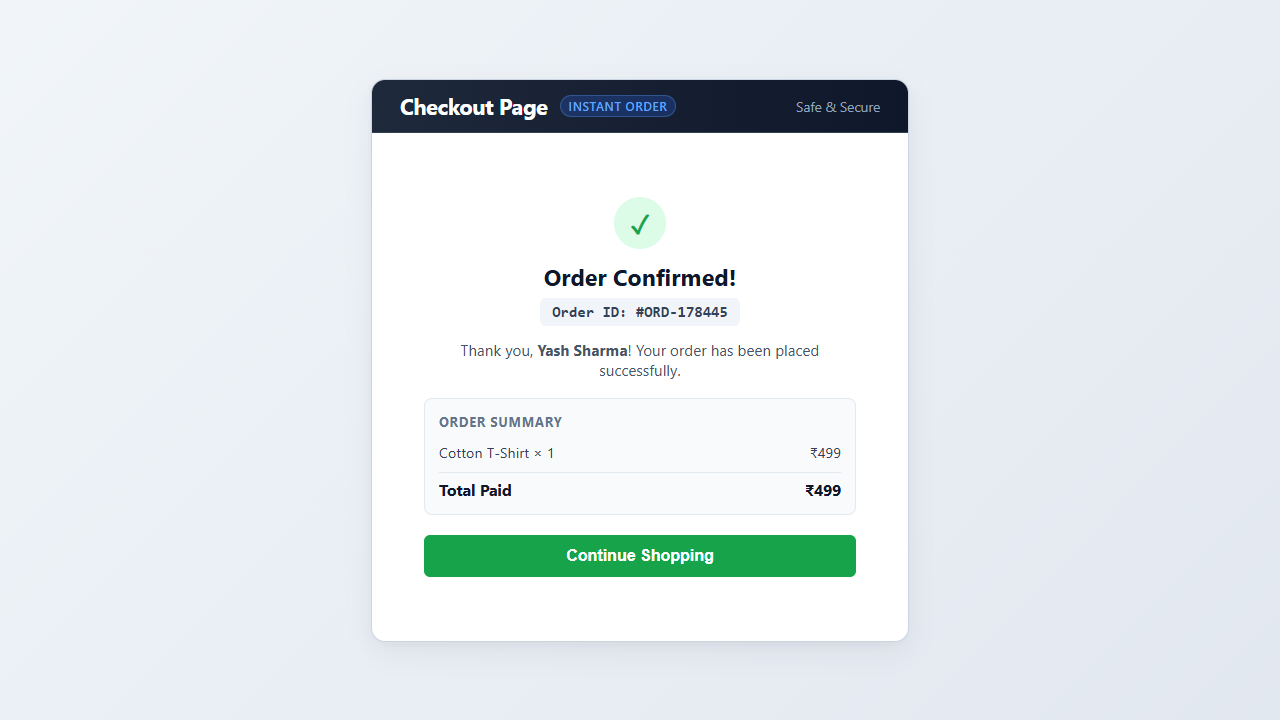
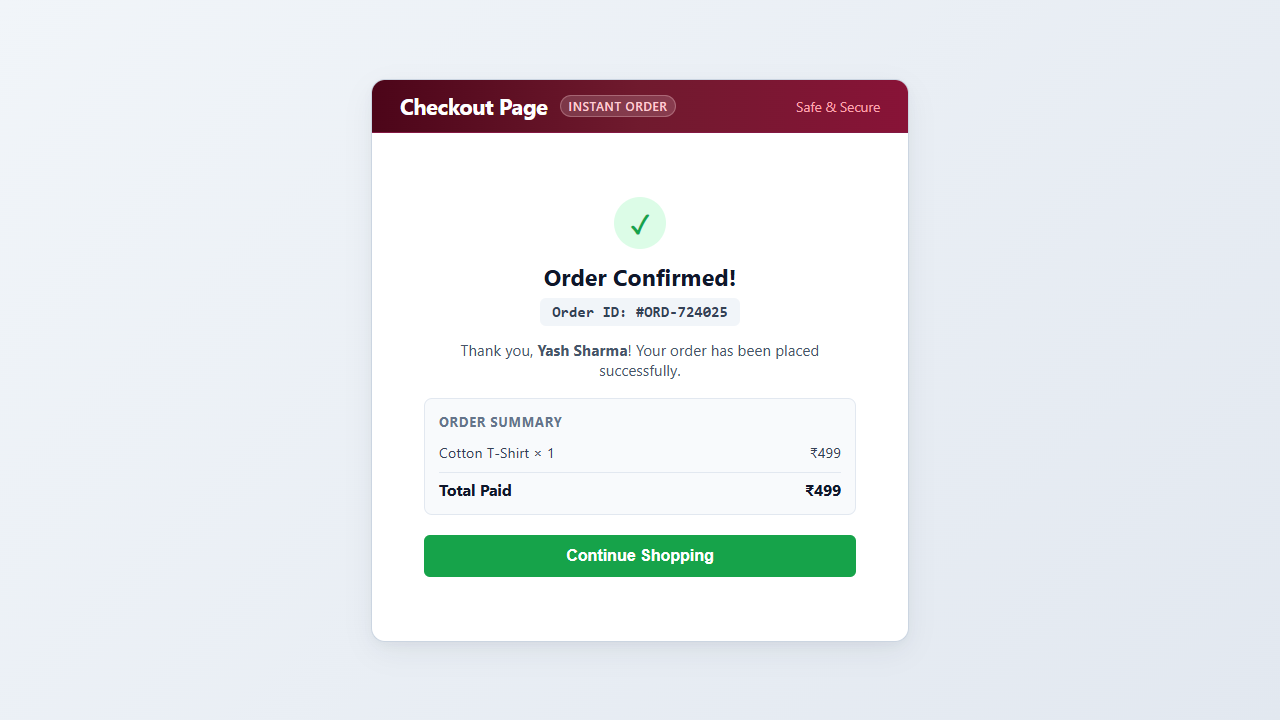
style: apply elegant maroon shade to header and Place Order button

Changed region(s): [[0.2812, 0.0917, 0.7188, 0.1833], [0.5312, 0.4278, 0.5625, 0.4583]]

diff --git a/src/styles/App.css b/src/styles/App.css
@@ -44,13 +44,13 @@ body {
 
 /* Top Header Bar Inside the Card */
 .checkout-topbar {
-  background: linear-gradient(90deg, #1e293b 0%, #0f172a 100%);
+  background: linear-gradient(90deg, #4c0519 0%, #701a2e 50%, #881337 100%);
   color: #ffffff;
   padding: 12px 28px;
   display: flex;
   justify-content: space-between;
   align-items: center;
-  border-bottom: 1px solid #334155;
+  border-bottom: 1px solid #831843;
 }
 
 .topbar-title-group {
@@ -66,9 +66,9 @@ body {
 }
 
 .topbar-tag {
-  background: rgba(37, 99, 235, 0.25);
-  color: #60a5fa;
-  border: 1px solid rgba(96, 165, 250, 0.3);
+  background: rgba(255, 255, 255, 0.15);
+  color: #fecdd3;
+  border: 1px solid rgba(254, 205, 211, 0.3);
   font-size: 0.75rem;
   font-weight: 600;
   padding: 2px 8px;
@@ -79,7 +79,7 @@ body {
 
 .step-badge {
   font-size: 0.85rem;
-  color: #94a3b8;
+  color: #fda4af;
   display: flex;
   align-items: center;
   gap: 6px;
@@ -438,17 +438,17 @@ body {
 }
 
 .form-group input:focus {
-  border-color: #16a34a;
-  box-shadow: 0 0 0 3px rgba(22, 163, 74, 0.15);
+  border-color: #881337;
+  box-shadow: 0 0 0 3px rgba(136, 19, 55, 0.15);
 }
 
 .error-alert {
   margin-top: 8px;
   padding: 8px 12px;
   border-radius: 6px;
-  background-color: #fef2f2;
-  border-left: 3px solid #ef4444;
-  color: #b91c1c;
+  background-color: #fff1f2;
+  border-left: 3px solid #be123c;
+  color: #9f1239;
   font-size: 0.85rem;
   font-weight: 500;
 }
@@ -467,7 +467,7 @@ body {
   justify-content: center;
 }
 
-/* 1) ADD TO CART BUTTON IS NOW GREEN */
+/* 1) ADD TO CART BUTTON IS GREEN */
 .btn-add {
   background: #16a34a;
   color: #ffffff;
@@ -481,20 +481,21 @@ body {
   transform: translateY(-1px);
 }
 
+/* 2) PLACE ORDER BUTTON IS MAROON */
 .btn-checkout {
-  background: #0f172a;
+  background: linear-gradient(135deg, #881337 0%, #701a2e 100%);
   color: #ffffff;
   width: 100%;
   margin-top: 14px;
   padding: 11px;
   font-size: 0.98rem;
   font-weight: 700;
-  border: 1px solid #1e293b;
+  border: 1px solid #701a2e;
 }
 
 .btn-checkout:hover:not(:disabled) {
-  background: #1e293b;
-  box-shadow: 0 4px 14px rgba(15, 23, 42, 0.25);
+  background: linear-gradient(135deg, #9f1239 0%, #881337 100%);
+  box-shadow: 0 4px 14px rgba(136, 19, 55, 0.35);
   transform: translateY(-1px);
 }
 
@@ -508,7 +509,7 @@ body {
 }
 
 .btn-loading {
-  background: #1e293b;
+  background: #4c0519;
 }
 
 .spinner-text {
